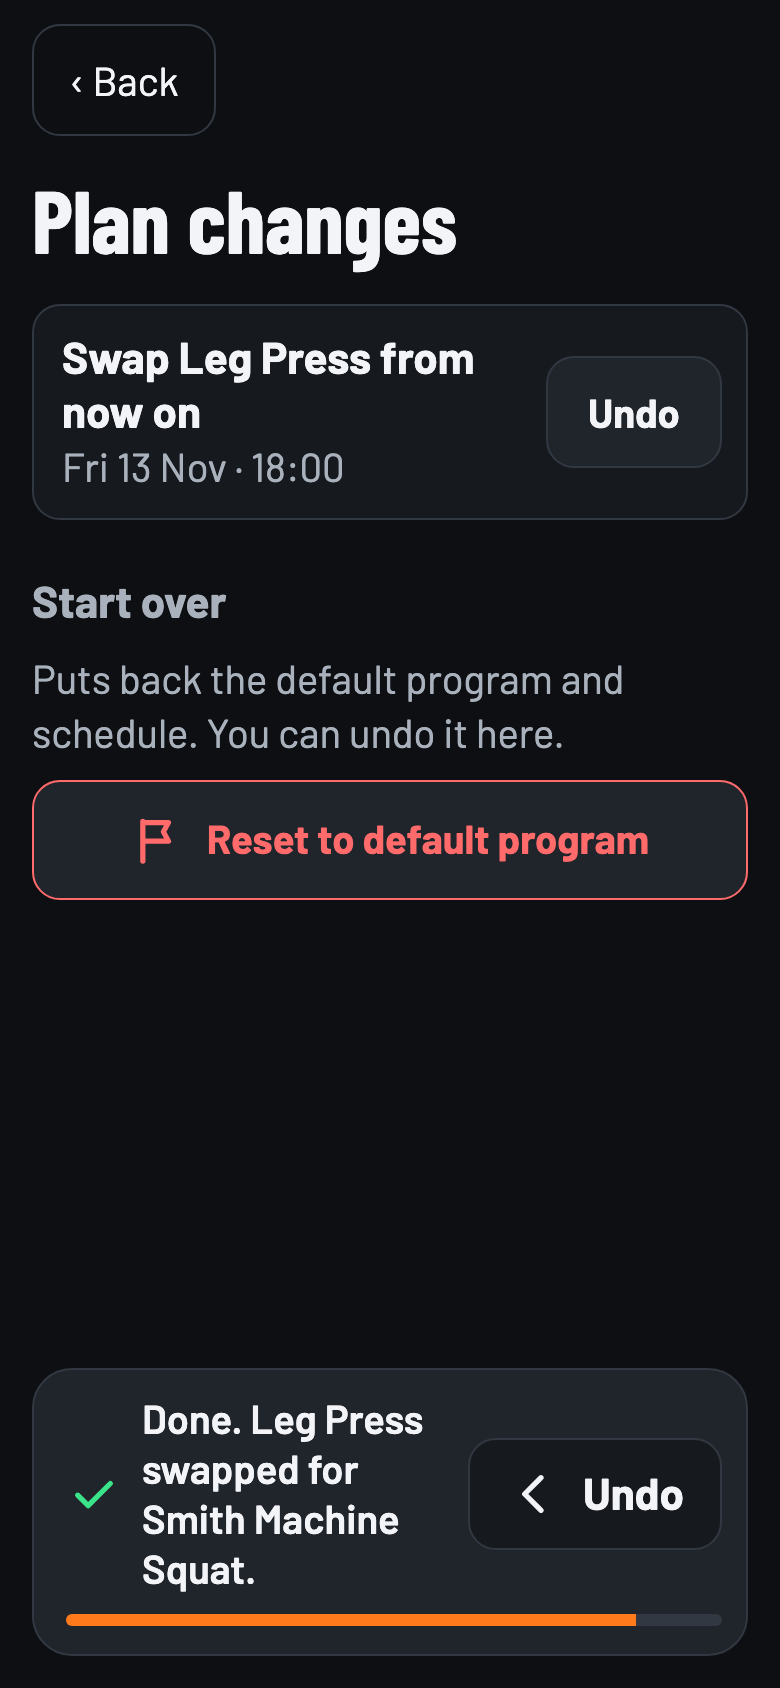
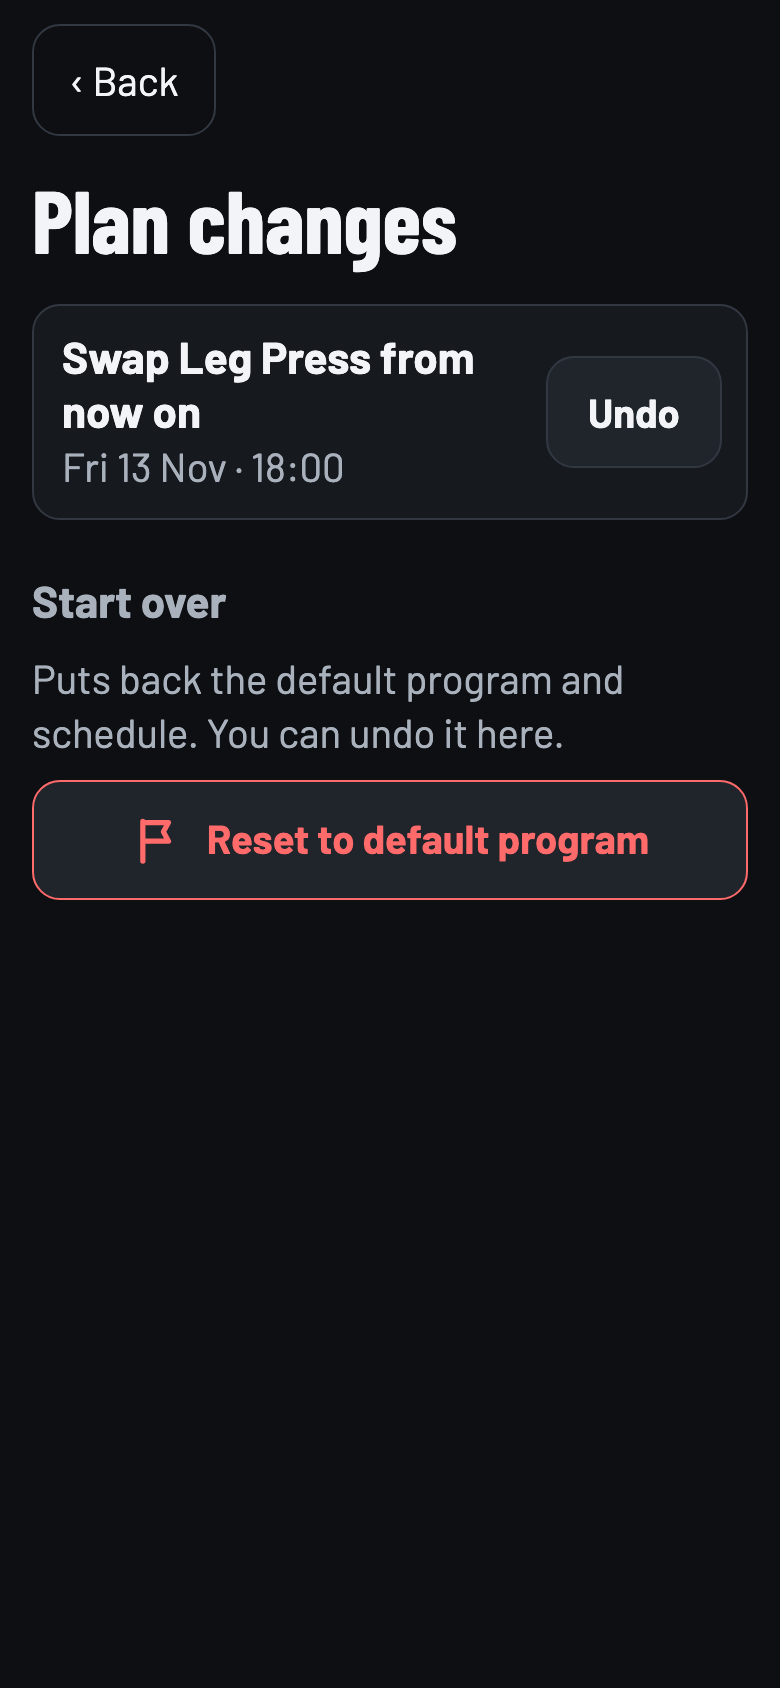
M10e + backup verified: verifier PASS (targeted e2e 36/36, equipment+backup 35/35, CI 43743340017 green), evidence and screenshots

Changed region(s): [[0.0308, 0.8009, 0.9846, 0.9858]]

diff --git a/docs/PROGRESS.md b/docs/PROGRESS.md
@@ -234,9 +234,9 @@ Claude Code updates this file at the end of every task. A fresh session resumes 
   - Done when: render tests + 390×844 screenshot; e2e: untick Smith machine → the Legs B swap offers the barbell squat first.
   - Deps: 6, 9.
 - [ ] 12. *(can-follow, after M10e-q4 is answered)* [anatomy-3d-engineer] Face pull / pushdown 3D demos with a single handle (src/ui/demo3d/**). Not this round.
-- [ ] 13. [reviewer] Review the branch diff: core pure (no DOM/DB in `src/core/trainer`), kit needs as data with no exercise-id branches, nothing applied without a tap, Undo works, copy passes `checkCopy`, 56 / 20px and tokens, no network, ownership respected, vendored entries match upstream. Deps: 10 (and 11 if built).
-- [ ] 14. [verifier] Verify the milestone against SPEC M10e Accept: `npm run check`, `npm run e2e`, `npm run build`, intent-eval score, 390×844 screenshots `docs/screenshots/m10e-*.png` (prompt, proposal, applied preview with Info, My gym if built), console clean, 0 off-device requests; evidence into PROGRESS. Deps: 13.
-- [ ] 15. [main] Merge `m10-equipment` + **ask Wongsaton before pushing** (push = deploy). Deps: 14.
+- [x] 13. [reviewer] Review the branch diff: core pure (no DOM/DB in `src/core/trainer`), kit needs as data with no exercise-id branches, nothing applied without a tap, Undo works, copy passes `checkCopy`, 56 / 20px and tokens, no network, ownership respected, vendored entries match upstream. Deps: 10 (and 11 if built).
+- [x] 14. [verifier] Verify the milestone against SPEC M10e Accept: `npm run check`, `npm run e2e`, `npm run build`, intent-eval score, 390×844 screenshots `docs/screenshots/m10e-*.png` (prompt, proposal, applied preview with Info, My gym if built), console clean, 0 off-device requests; evidence into PROGRESS. Deps: 13.
+- [x] 15. [main] Merge `m10-equipment` + **ask Wongsaton before pushing** (push = deploy). Deps: 14.
 - [ ] 16. 🧍 **Checkpoint E (extended):** at the gym, Legs B runs with the leg-press swap; he reports the replacement's weight and whether the prompt felt right. Deps: 15.
 
 **Parallel waves:**
@@ -2562,6 +2562,28 @@ Scope: the six `tracking: "pose"` exercises in `program.json` (Dumbbell_Bicep_Cu
   2. The Undo toast from a log follows across tabs and into the coach and scan sheets for its full 10 s (seen on Settings, Coach and Scan). This is the M10 behaviour.
   3. Main chunk +35 kB gzip (Fuel screens + nutrition core). The food list and the scanner are lazy, as planned.
   4. The setup screenshot shows the sticky Save targets bar just below "Stays on this phone." with no gap. It isn't clipped.
+
+### M10e + backup (2026-11-15)
+- Verified on `m10-equipment` at **2acf4e2** (clean tree apart from untracked `fixtures-staging/`; app code untouched). Reviewer PASS at ff3f318. **GitHub CI on 2acf4e2: run 43743340017 passed** (check + full e2e + build, Linux); the full e2e wasn't repeated locally.
+- `npm run check`: typecheck + lint clean, Vitest **99 files / 2,707 tests passed**, node script tests **56/56**. M10e + B1 suites alone (intents, equipment, swapCandidates, gym, backup, catalog): 6 files / 121 passed. Intent eval: **100%** (95/95 rule-supported items, no miss printed; 6 gym/"no leg press" items incl. Thai), safety flags 100%. Covered by name: Leg Press → Smith squat, barbell squat, split squat in order; no smith → barbell first; never rope / never kit the gym lacks, with or without an avoid area; every program exercise has a candidate; `missingKit` on Legs B / after a swap / kept / rest day / overrides; gymSwap Apply → Undo restores Leg Press exactly; free text reaches the same proposal; every missing-kit reply passes `checkCopy`; profile default / round trip / unknown id rejected / keep / save clears kept / still Dexie v5.
+- `npm run build`: OK. Main `index` **614.15 kB / 184.32 kB gzip** vs origin/main (c818def, `vite build` of a `git archive` copy) **587.39 / 177.49 kB** → **+26.8 kB raw / +6.8 kB gzip**. CSS 87.71 kB. Lazy unchanged: three.module 535.59, landmarker 154.39, scene 38.65, reader 37.72, viewer 5.73, skeleton3d 2.36 kB. **Precache still has `assets/usda-foods-CEIZg-2w.json` (2.65 MB) and `assets/zxing_reader-BCjuyud6.wasm` (947 kB)**, same hashes as main. 26 entries here vs 24 on the archive copy: the extra two are `mediapipe/wasm/*` from the gitignored `public/mediapipe/` that exists only in a checkout with `npm install`, not a branch change.
+- Targeted e2e, `E2E_PORT=5371 npx playwright test e2e/{equipment,backup,fuel,barcode,trainer,history,history-flow}.spec.ts`: **36 passed, 1 skipped** (`history.spec.ts` HISTORY_SHOTS, opt-in), 0 failed, 11.0 s. Flakiness: `equipment.spec.ts` + `backup.spec.ts` `--repeat-each=5`: **35/35 passed**.
+- Click-through (`SHOT_PORT=5372 node scripts/screenshots.mjs m10e`; clock Fri 13 Nov 18:00, Push A…Pull B seeded so Legs B is next; Open Food Facts routed):
+  - Today: "Your gym has no kit for Leg Press." See a swap / Keep it; preview still lists Leg Press before any tap (1 row);
+  - See a swap → proposal "Swap Leg Press from now on · Legs B · Leg Press → Legs B · Smith Machine Squat", why "No leg press here. This works the same main muscles."; chips Try Barbell Squat, Try Split Squat with Dumbbells, Just today, Keep Leg Press;
+  - Apply → Undo toast, prompt gone; preview Smith Machine Squat with **Info** badge, Leg Press 0 rows; **reload keeps it** (Smith 1 row + Info, Leg Press 0, no prompt);
+  - Settings → Plan changes → Undo → Today prompt back, preview lists Leg Press again;
+  - **Keep it** → prompt gone, still gone **after reload**, preview keeps Leg Press and shows no prompt;
+  - My gym: Leg press unticked / Smith ticked by default → tick Leg press → reload → no prompt, still ticked → untick → reload → prompt back (Keep reset by the profile change);
+  - Backup: Back up downloads `gym-clean-2026-11-13.gymclean-backup.json`; switch to lb; Restore → "Replace all data on this phone? … 5 workouts." → first tap "Tap again to replace" → second tap → "Restored from the backup." + Undo toast, unit back to kg → Undo → "Restore undone.", unit lb again;
+  - M7: Fuel setup → Coach "what should I eat" → 3 rows (555 kcal · 54 g, 708 · 50 g, 775 · 45 g), **no decimal grams**.
+  - Off-device requests: **0** (offsite list empty, 0 Open Food Facts calls).
+- Screenshots 390×844 (DPR 2), every one **scrollWidth 390**, **0 console errors/warnings, 0 page errors**, **no visible button under 56px**: `docs/screenshots/m10e-verify-{prompt-today,prompt-preview,proposal,applied-today,applied-preview,applied-preview-reloaded,plan-changes,plan-changes-undone,kept-today,settings,my-gym,my-gym-ticked,backup,restore-confirm,restore-tap-again,restored,restore-undone,coach-food}.png`.
+- Non-blocking observations:
+  1. 18px text on screen: the hero muscle chips (Quadriceps / Hamstrings / Calves), the streak weekday letters and the tab-bar labels. All predate this branch: its CSS only adds rules for the new gym prompt, My gym and backup panel, which use `--fs-body` / `--fs-cue`, and the measure found no new text under 20px.
+  2. The proposal screenshot opens with the coach's reply line scrolled half out under the sheet header ("…Leg Press. Here's a swap." visible). The card itself is whole.
+  3. After Restore → Undo, "Restore undone." shows both inline and in the toast at the same time.
+  4. Main chunk +6.8 kB gzip (equipment/kit data, My gym, backup panel).
 
 ## Blockers / questions for Wongsaton
 - **M9 native iOS shell: ANSWERED 2026-11-15 — Wongsaton: "Go with your defaults for all 9, I'm using iPhone 17 Pro". q1 free Apple ID first; q2 ios-engineer added to CLAUDE.md (its agent file in the main checkout still needs the §M8 / HealthKit / spike-order fix: Claude is not allowed to edit .claude/agents there; M9 briefs override it); q3 iOS 26.0; q4–q8 defaults; q9 Xcode: installed at /Applications/Xcode.app but `xcodebuild` fails to load CoreDevice ("Error loading required libraries… reinstall") — he must open Xcode and finish/repair its component install before task 3. (Was: planned 2026-11-15; BLOCKING: no code until you answer, or say "go with the defaults"). The platform facts are in Decisions "M9 native shell plan" and get re-checked against live docs before any code:**
